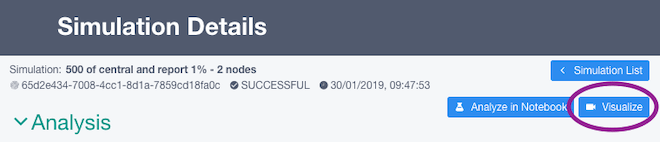
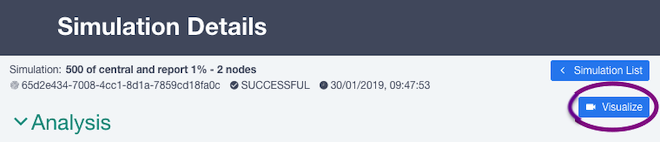
Remove old files (#33)

diff --git a/docs/run_simulation.md b/docs/run_simulation.md
@@ -2,7 +2,7 @@
 
 
 ## Launch Simulation
-Go to [Simulation-Launcher-UI](https://bbp.epfl.ch/public/dev.simulationapp/index.html#/)
+Go to [Simulation-Launcher-UI](https://bbp.epfl.ch/public/simulationapp/index.html#/circuits/hippo_mooc_sa_microcircuit)
 
 Full documentation [Github](https://github.com/lbologna/hbp-sp6-guidebook/blob/master/source/online_usecases/brain_area_circuit_in_silico_experiments/hippocampus/configure_run_brainregion_preconf_model_data/configure_run_brainregion_preconf_model_data.rst)
 
@@ -18,6 +18,7 @@ In this section we will define the stimulation that we want to apply and in whic
 - A new window will pop-up and it should looks like the one below (in case of question please check the full doucmentation mentioned above)
 
   ![](images/stimulus_edit.png)
+
 
 #### Define report(s):
 In this section we will define the reports that we want to obtain from the simulation We need to specify from which population we want to obtain the data from.
@@ -39,6 +40,7 @@ In this section we will define the resources that we want to use for the previou
 - Start the simulation clicking on ‘Run Simulation’ button.
 - After the simulation starts you will be redirected to a detail page.
 
+
 ## Run Predefined Analysis
 In this section you will learn how to launch some predefined analysis like: _Peristimulus Time Histogram_, _Spike Raster Plot_ or _Voltage Trace Plot_
 
@@ -54,26 +56,6 @@ In this section you will learn how to launch some predefined analysis like: _Per
 
   ![analysis_results](images/analysis_results.png)
 
-## Run Analysis in Jupyter Notebook
-In this section you will learn how to analyse a simulation using Jupyter Notebook in Collab.
-
-- From the detailed page
-
-  ![analysis_in_notebook](images/launch_analysis_nb.png)
-
-- Select the type of analysis that you want to perform.
-
-  ![launch_viz](images/select_analysis_nb.png)
-
-- You should be redirected to a new page to choose the collab where you want to place the analysis notebook.
-
-  ![launch_viz](images/select_collab.png)
-
-- Search from your collabs or create a new one.
-
-- After being redirected you should see a Jupyter Notebook in the selected Collab
-
-  ![run_notebook](images/run_notebook.png)
 
 ## Visualize circuit using Brayns
 

diff --git a/README.md b/README.md
@@ -1,11 +1,4 @@
 # MOOC-hippocampus-network-simulation-2019
 
-### Initialize course
-- Open [EDX course](https://courseware.epfl.ch/courses/course-v1:EPFL+SimNeuro2+2019_2/courseware/ba6f8be8f0bb4956a94147f7a09e4cf4/f949d2c29dd94e1aa86bdc0d7a69c3fe/1?activate_block_id=block-v1%3AEPFL%2BSimNeuro2%2B2019_2%2Btype%40vertical%2Bblock%40e7654d4da7334108b7fa55e2338e41e5)
-- Click on `Open Jupyter Lab` button (HINT: If you do not see that Button, change `view this course as` to `staff`, and click again on the link above).
-- After the Jupyter Lab is open you can check the content of the notebooks
-
-### Modify notebook and save changes
-- Modify the notebook
-- Open a terminal on Jupyter Lab and change directory to the github repo (`cd ~/MOOC-hippocampus-network-simulation-2019`)
-- Commit changes and push to the branch (for now `sync-notebooks`)
+### edx course link
+https://courseware.epfl.ch/courses/course-v1:EPFL+SimNeuro2+2019_2/course/

diff --git a/docs/modify_notebook_noto.md b/docs/modify_notebook_noto.md
@@ -1,0 +1,9 @@
+### Initialize course
+- Open [EDX course](https://courseware.epfl.ch/courses/course-v1:EPFL+SimNeuro2+2019_2/courseware/ba6f8be8f0bb4956a94147f7a09e4cf4/f949d2c29dd94e1aa86bdc0d7a69c3fe/1?activate_block_id=block-v1%3AEPFL%2BSimNeuro2%2B2019_2%2Btype%40vertical%2Bblock%40e7654d4da7334108b7fa55e2338e41e5)
+- Click on `Open Jupyter Lab` button
+- After the Jupyter Lab is open you can check the content of the notebooks
+
+### Modify notebook and save changes
+- Modify the notebook
+- Open a terminal on Jupyter Lab and change directory to the github repo (`cd ~/MOOC-hippocampus-network-simulation-2019`)
+- Commit changes and push to the branch (for now `sync-notebooks`)

diff --git a/docs/README.md b/docs/README.md
@@ -1,2 +1,1 @@
-### 1) Setup Nuvla account reading [this](./setup_nuvla_account.md) tutorial
-### 2) Run simulation and analyse simulations following [this](./run_simulation.md) tutorial
+#### Run simulation and analyse simulations following [this](./run_simulation.md) tutorial
